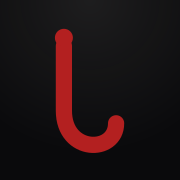
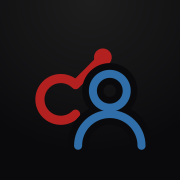
feat(brand): 站名改为「杀机图鉴」，图标换成红钩子 + 蓝人形叠加
图标（scripts/gen-icons.mjs 是唯一来源，重新跑 npm run gen:icons 生成）：
- 红色杀戮钩子按 45° 倾斜放在左上（形状取自 IconKiller）
- 蓝色人形（头 + 肩膀）压在右下（形状取自 IconSurvivor）
- 人形画两遍：先用底色 #0a0a0c 描粗一圈做 knockout，再描细一圈蓝色，
  否则 32px 下红蓝两笔会糊在一起
- 保留原有三档处理：普通圆角留边 / apple-touch-icon 直角满铺 / maskable 缩到 0.78

站名：
- index.html title、apple-mobile-web-app-title、meta description
- manifest 的 name / short_name / description
- 根 README、app/README 标题、docs 方案文档标题

文档：
- app/README 新增「站点图标：红钩子 + 蓝人形」一节，写清叠法、knockout、
  三档尺寸的差异，以及「别手改 public 里的 PNG」

Changed region(s): [[0.1944, 0.1389, 0.8333, 0.8611]]

diff --git a/app/index.html b/app/index.html
@@ -7,14 +7,14 @@
     <meta name="color-scheme" content="dark" />
     <meta
       name="description"
-      content="《黎明杀机》中文速查工具：角色、技能、配件与效果搜索。个人自用，非官方。"
+      content="杀机图鉴 —— 《黎明杀机》中文速查工具：角色、技能、配件与效果搜索。个人自用，非官方。"
     />
     <!-- 数值是站内的重要内容（「32 米」「30 秒」），关掉 iOS 的自动电话号码识别，
          否则个别数字串会被识别成 tel: 链接并染成蓝色 -->
     <meta name="format-detection" content="telephone=no" />
     <meta name="robots" content="noindex, nofollow" />
 
-    <title>迷雾工具箱</title>
+    <title>杀机图鉴</title>
 
     <!-- 图标：现代浏览器用矢量，其余走 PNG。
          带 <link rel="icon"> 后浏览器就不会再去请求 /favicon.ico，避免 404 -->
@@ -27,7 +27,7 @@
          配合 CSS 里的 env(safe-area-inset-*) 才不会被刘海压住 -->
     <meta name="apple-mobile-web-app-capable" content="yes" />
     <meta name="apple-mobile-web-app-status-bar-style" content="black-translucent" />
-    <meta name="apple-mobile-web-app-title" content="迷雾" />
+    <meta name="apple-mobile-web-app-title" content="杀机图鉴" />
     <meta name="mobile-web-app-capable" content="yes" />
 
     <!-- ============================================================

diff --git a/app/README.md b/app/README.md
@@ -1,4 +1,4 @@
-# 迷雾工具箱 · app
+# 杀机图鉴 · app
 
 自用的《黎明杀机》中文工具站。移动端优先，部署 **GitHub Pages**（`dbd.howerlin.top`）。
 
@@ -628,6 +628,37 @@ wiki 的染色参数是 `sepia(1) saturate(30) hue-rotate(289.1deg) saturate(7) 
 | （活动） | `event` | `#D57C1F` | `#FFB843` |
 
 深底上 2px 细线用 base 太暗，所以**色条用 glow 变体，详情里的文字/描边用 base**。
+
+## 站点图标：红钩子 + 蓝人形
+
+站名 **杀机图鉴**，图标是两半叠加：
+
+```
+   ╱  红色杀戮钩子（斜 45°）        ← IconKiller 的形状
+  ◯   蓝色人形（头 + 肩膀）压在上面   ← IconSurvivor 的形状
+```
+
+两个形状直接取自 `components/Icons.tsx` 的 `IconKiller` / `IconSurvivor`（同一套 24 空间线性语言），
+所以图标和页面里的阵营图标是同一个形状，不是另画一套。
+
+**叠法**：钩子在左上、`rotate(45)`；人形在右下压在上面。人形要画**两遍** ——
+先用底色 `#0a0a0c` 描粗一圈（knockout），再描细一圈蓝色。
+不这么做的话，32px 下红蓝两笔会糊成一团；那道底色的缝就是两个图形之间的「呼吸」。
+
+**唯一来源是 `scripts/gen-icons.mjs`**：内联 SVG → sharp 渲染 → `favicon.svg` + 6 个 PNG。
+改图标就改脚本里那段 SVG，然后 `npm run gen:icons`，**不要手改 `public/` 里的 PNG**。
+
+三个尺寸的差异（不处理装到主屏会很难看）：
+
+| 产物 | 处理 |
+|---|---|
+| `favicon.svg` / `favicon-32.png` | 圆角 22、留边，`glow: false`（32px 上看不出光） |
+| `icon-192/512` | 同上，带顶部冷光 |
+| `apple-touch-icon.png`（180） | **直角满铺、不许圆角** —— iOS 自己裁圆角，留边会显得缩了一圈 |
+| `icon-maskable-512.png` | 图形缩到 `scale: 0.78`，否则安卓启动器裁圆形会把钩子切掉 |
+
+这几个 PNG 是**全站唯一允许存在的 PNG**（Safari 的 `apple-touch-icon` 和部分安卓启动器不认 WebP），
+`verify-assets.mjs` 对它们有白名单。
 
 ## 首屏加载动画（`index.html` 内联的 `#splash`）
 

diff --git a/docs/dbd-tool-site-plan.md b/docs/dbd-tool-site-plan.md
@@ -1,4 +1,4 @@
-# 迷雾工具箱 · 项目方案 v2
+# 杀机图鉴 · 项目方案 v2
 
 > 定位：**自用的《黎明杀机》中文数据库工具站**，移动端优先，部署于 GitHub Pages。
 > 本文档取代 v1（v1 的四个板块 + 收藏功能已废弃，见 §10 变更表）。

diff --git a/README.md b/README.md
@@ -1,4 +1,4 @@
-# 迷雾工具箱
+# 杀机图鉴
 
 《黎明杀机》的**中文速查工具站**。移动端优先，桌面端自适应，部署在 **GitHub Pages**（`dbd.howerlin.top`），个人自用。
 
